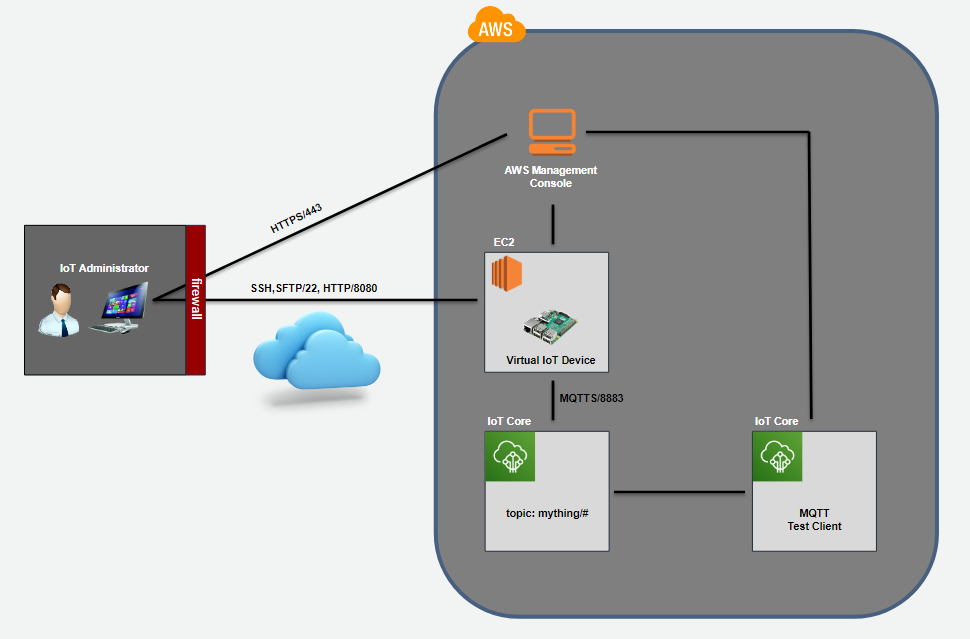
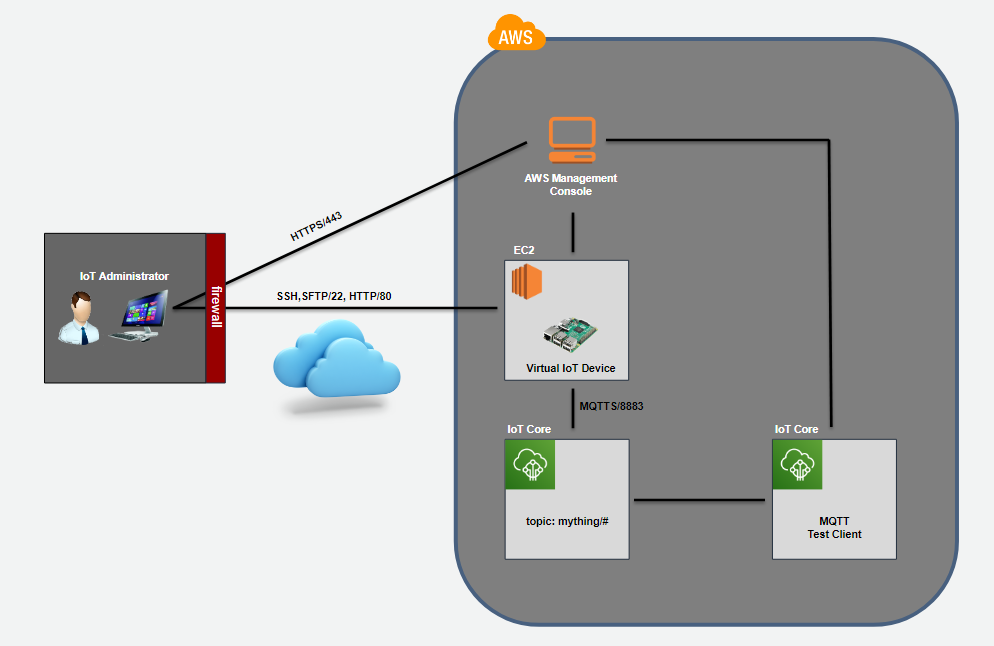
Added clarifications and corrected a few screen captures

diff --git a/Workshop5-Virtual-thing-shadow.md b/Workshop5-Virtual-thing-shadow.md
@@ -22,7 +22,7 @@ In a perfect world your IoT device will be connected to the Internet 24x7x365. H
    [ec2-user@ip-172-31-29-44 ~]$ **cd ~/iot-core-device-simulator-master**<br>
    [ec2-user@ip-172-31-29-44 ~]$ **npm install -s condition-variable**<br>
 
-   ![npm init](images/nano-edit.png)
+   ![npm init](images/nano-edit5.png)
    [ec2-user@ip-172-31-29-44 ~]$ **nano index.js**<br>
    Copy and paste the following code into the nano edit session and save the file.<br>
    **IMPORTANT:** Replace the **host:** value with the Custom Endpoint value you took note of earlier<br>
@@ -115,7 +115,7 @@ function onWebSocketConnect(ws, req) {
   console.log('WebSocket Connected');
 
   ws.on('message', onWebSocketMessage);
-  online.complete();
+  <b style="color:red">online.complete();</b>
 
   flash();
   beep();
@@ -278,7 +278,7 @@ main();
    - Stop the running program by pressing Control-C (This will simulate a lost network connection)
 
 
-   ![MyThing Subscribe](images/stop-program.png)
+   ![MyThing Subscribe](images/stop-program-virtdev.png)
 
 **Go back to the tab pane where you opened the Thing Test page to publish messages**
    - Specify a topic of **$aws/things/mything/shadow/update**
@@ -303,10 +303,11 @@ main();
    ![MyThing Subscribe](images/thing-shadow-blue-on-off.png)
 
 **Go to the tab pane where you opened the SSH session to your virtual IoT Device**
-   - Start the program running again (This will simulate the network restablishing connectivity)
+   - Start the program running again (This will simulate the network restablishing connectivity)<br>
+   [ec2-user@ip-172-31-29-44 ~]$ **sudo node index.js --port=80**
 
 
-   ![MyThing Subscribe](images/start-program.png)
+   ![MyThing Subscribe](images/start-program-virtdev.png)
 **Notice that the virtual IoT device's blue LED turns on**
 
 **Go back to the tab pane where you opened the Thing Shadow**

diff --git a/Workshop2-Virtual-DeviceOnboarding.md b/Workshop2-Virtual-DeviceOnboarding.md
@@ -133,9 +133,9 @@ In this lab you will convert your virtual device program, which can control and 
    ![SFTP Virtual Device](images/sftp-virtual-device.png)
 
   nasftp ./ > **cd ~/iot-core-device-simulator-master**<br>
-  nasftp /home/pi/Development/iot-workshop/ > **mkdir certs**<br>
-  nasftp /home/pi/Development/iot-workshop/ > **cd certs**<br>
-  nasftp /home/pi/Development/iot-workshop/certs/ > **put**<br>
+  nasftp /home/ec2-user/iot-core-device-simulator-master/ > **mkdir certs**<br>
+  nasftp /home/ec2-user/iot-core-device-simulator-master/ > **cd certs**<br>
+  nasftp /home/ec2-user/iot-core-device-simulator-master/certs/ > **put**<br>
 
    ![SFTP Raspberry Pi](images/sftp-raspberry-pi-put-file.png)
 
